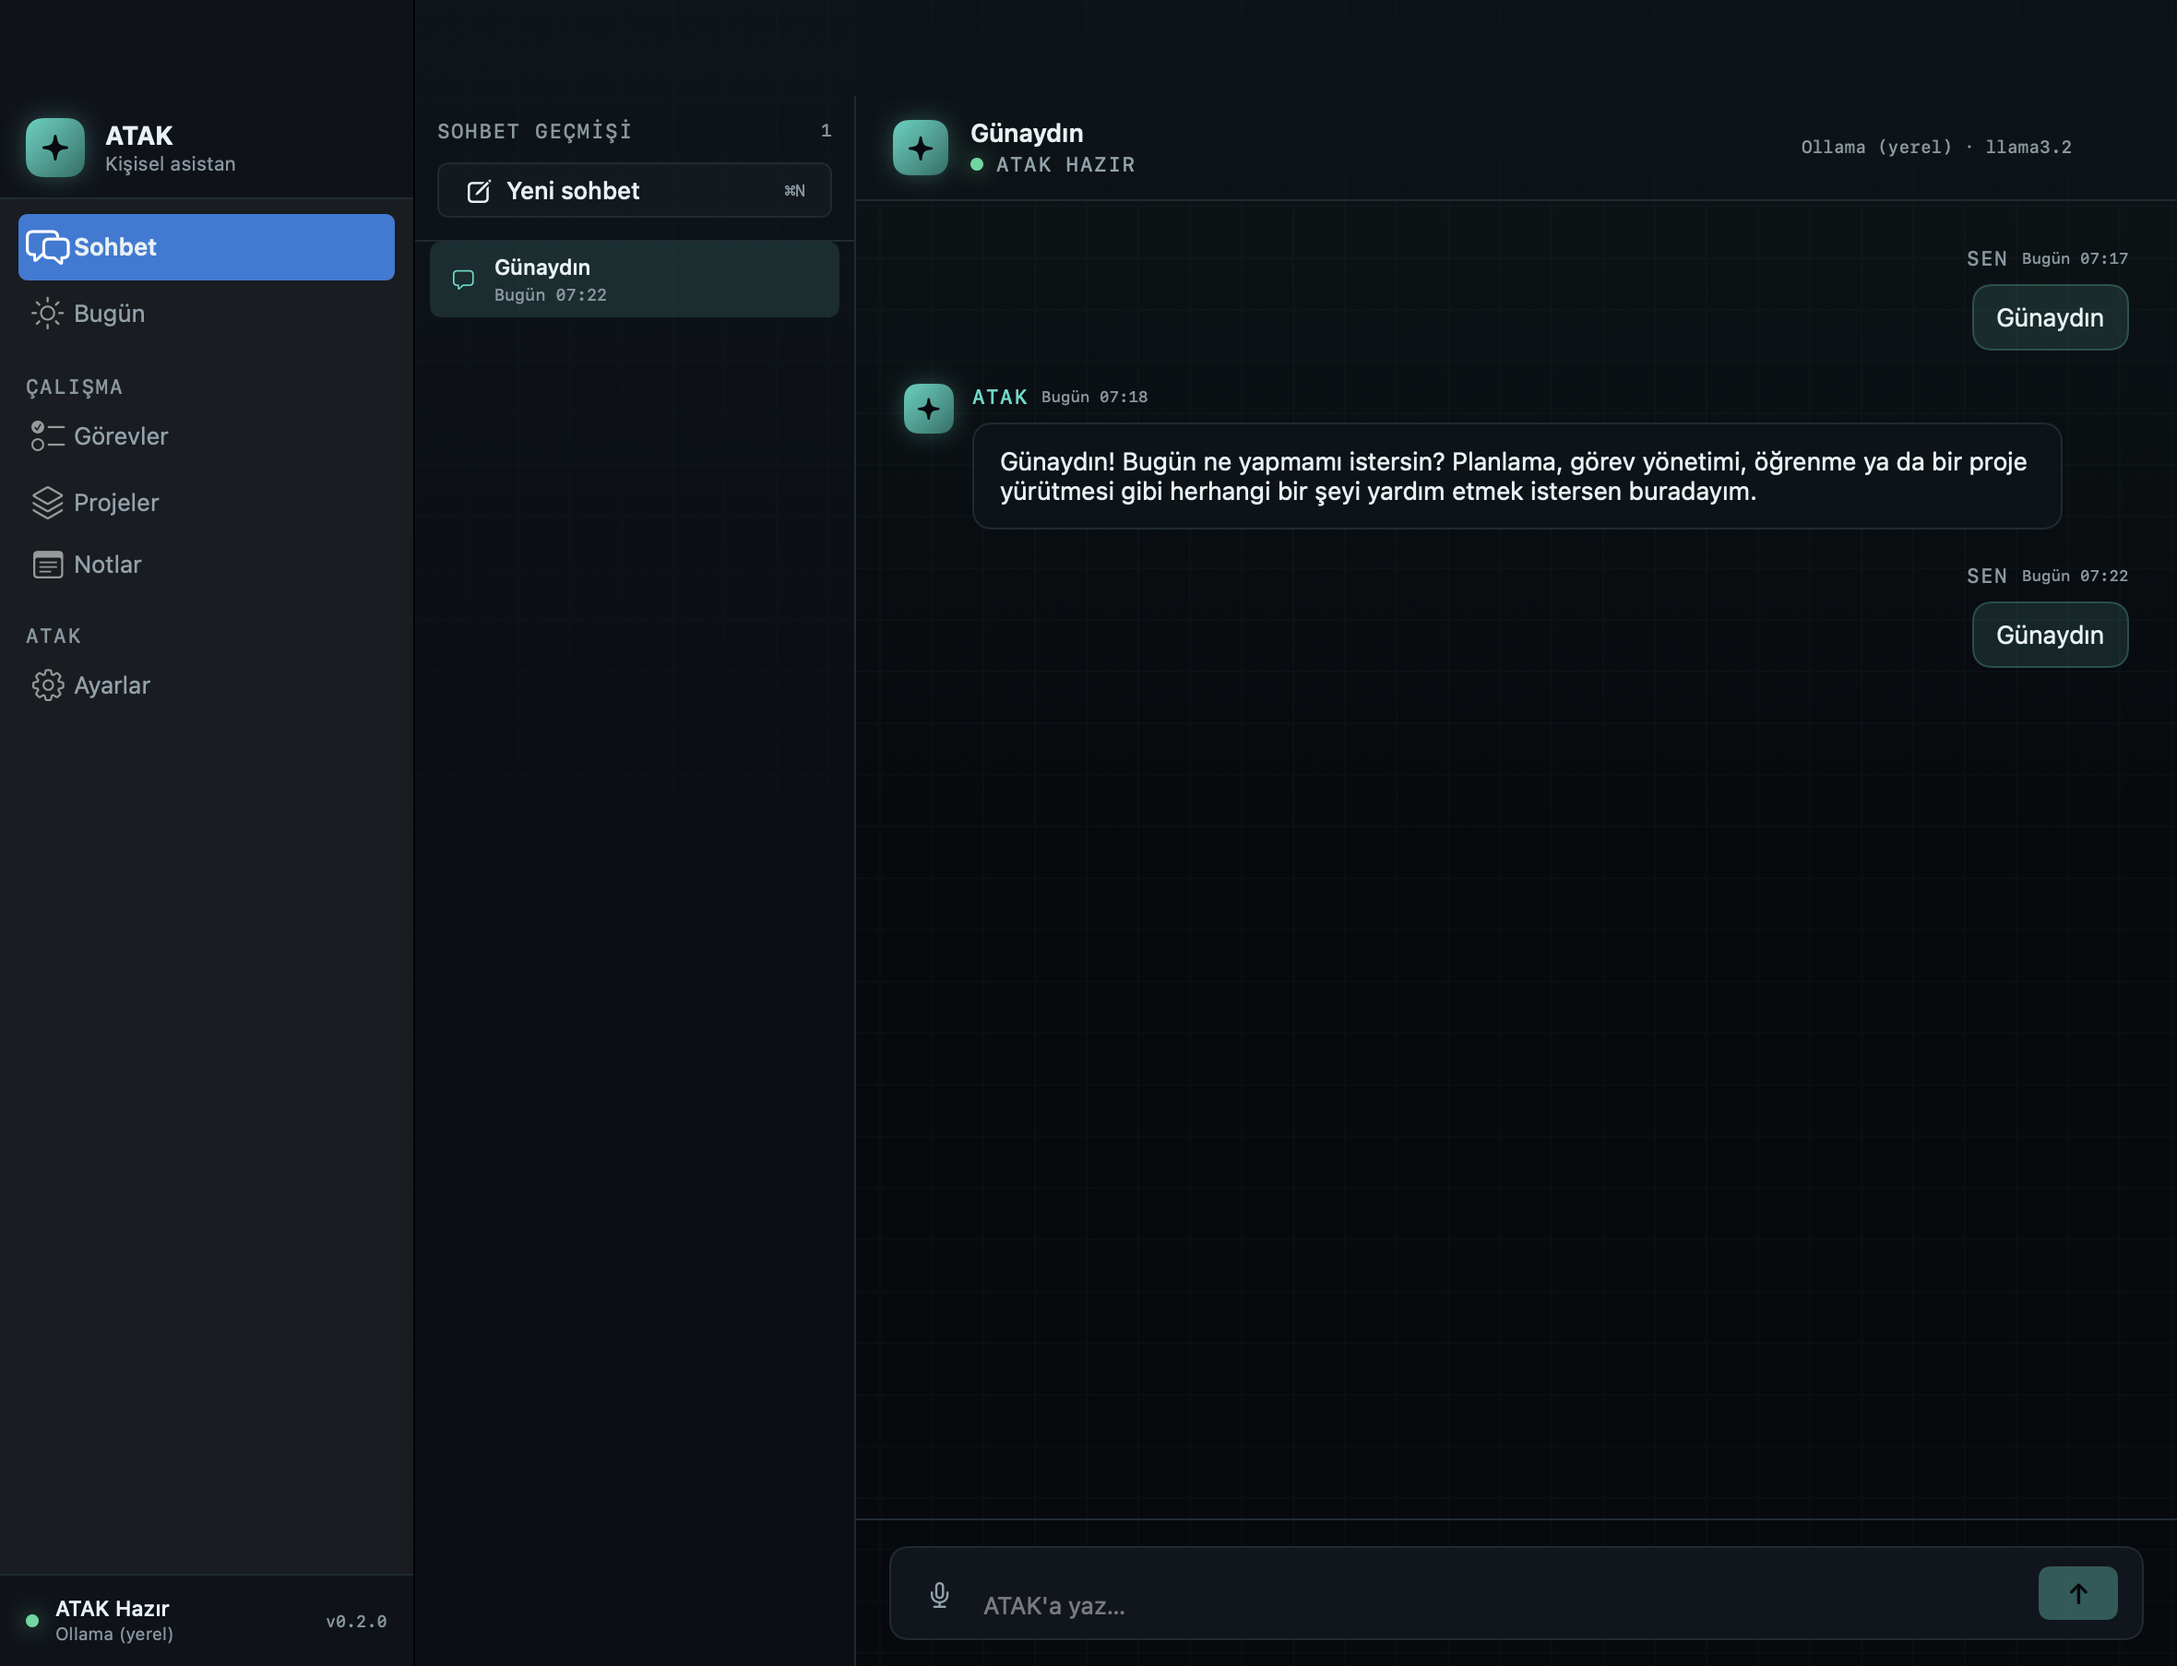
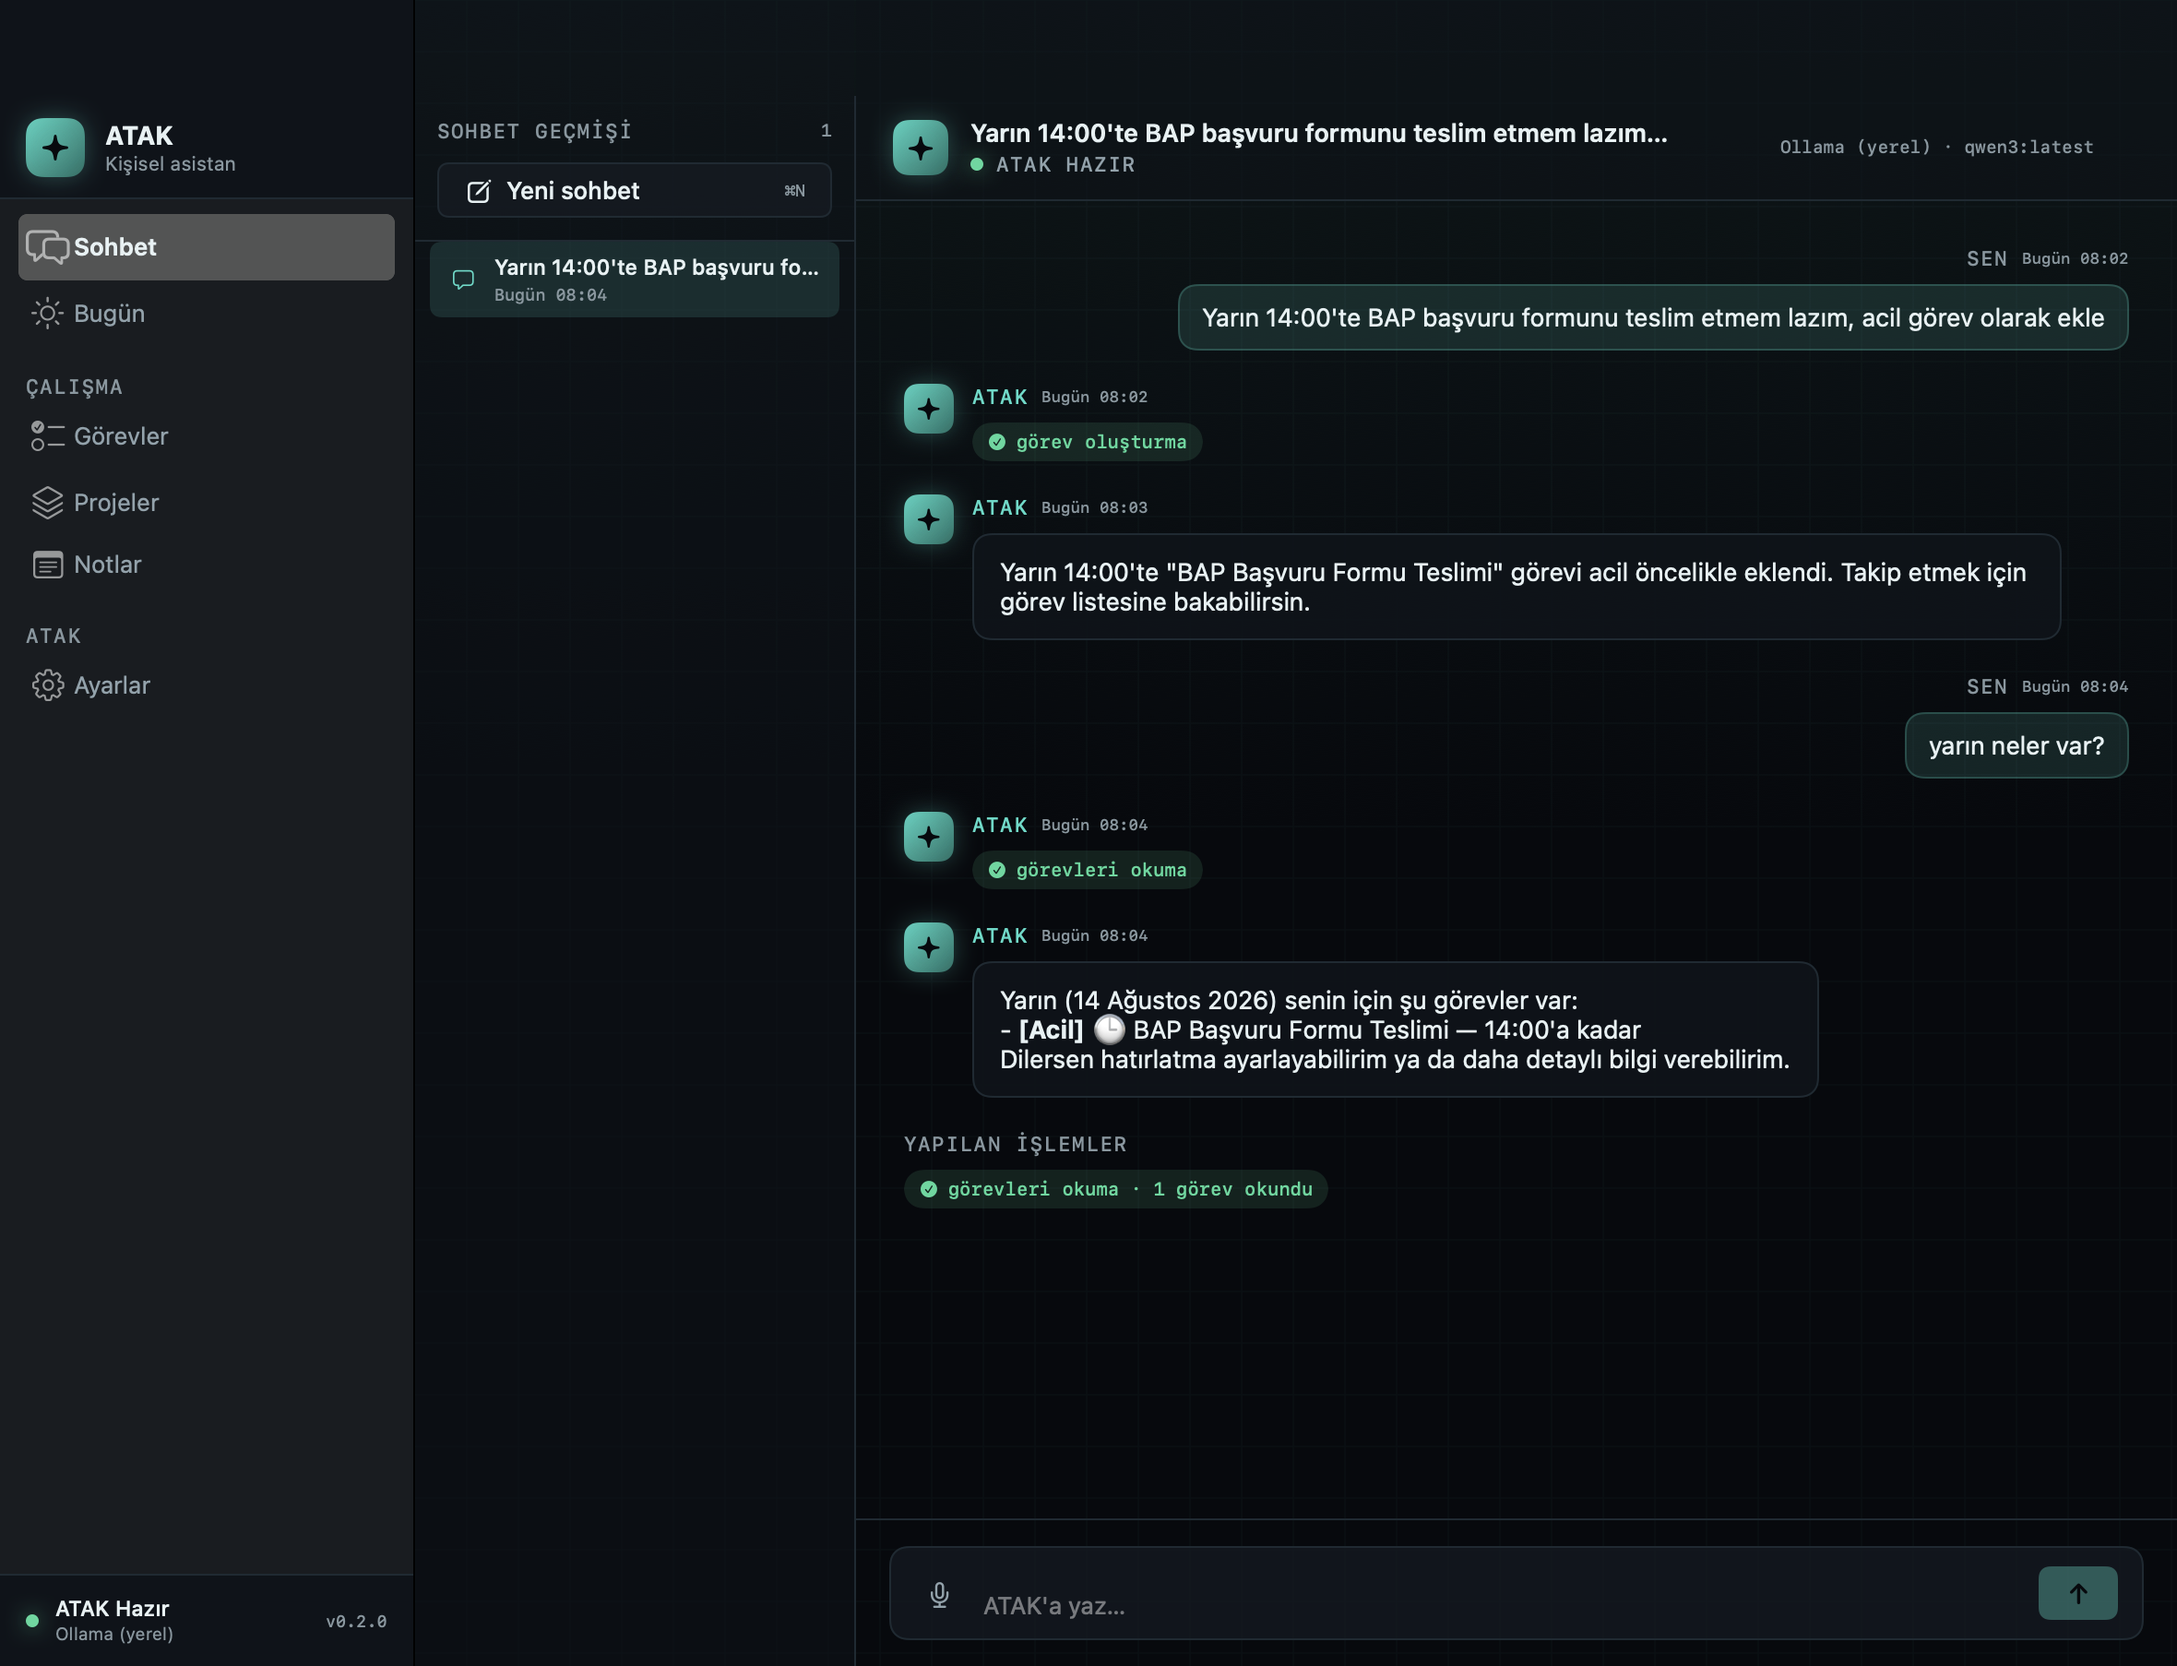
Stop leaking internal task IDs, add a tomorrow filter, refresh screenshots
Two defects surfaced while recording a demo conversation for the README:

1. Internal UUIDs reached the user. create_task returned "(id: 773D767A-…)"
   and the model dutifully repeated it in chat. The ID is needed for
   complete_task, so it stays in the tool result — but it is now labelled as
   internal, and the system prompt states it must never appear in a reply.

2. "yarın neler var?" could not be answered. list_tasks offered only
   today / open / overdue / completed / all, so asking about a specific
   upcoming day fell back to today's window and returned nothing. Added a
   tomorrow filter scoped strictly to tomorrow's bounds, plus a week filter
   over the existing upcoming(days:) case.

Screenshots recaptured against a conversation that actually demonstrates the
product: the assistant creates an urgent task, then reads it back with the
correct date and priority, with both tool badges visible.

114 tests green.

diff --git a/Sources/ATAKCore/Agent/ATAKToolbox.swift b/Sources/ATAKCore/Agent/ATAKToolbox.swift
@@ -73,8 +73,8 @@ public struct ATAKToolbox: Sendable {
                     "properties": .object([
                         "filter": .object([
                             "type": "string",
-                            "enum": .array(["today", "open", "overdue", "completed", "all"]),
-                            "description": "Hangi görevler; belirtilmezse open",
+                            "enum": .array(["today", "tomorrow", "week", "open", "overdue", "completed", "all"]),
+                            "description": "Hangi görevler; belirtilmezse open. 'tomorrow' yalnız yarını, 'week' önümüzdeki 7 günü verir.",
                         ])
                     ]),
                 ])
@@ -187,7 +187,9 @@ public struct ATAKToolbox: Sendable {
             throw ATAKError.database("Görev kaydedildi görünüyor ama geri okunamadı.")
         }
 
-        var detail = "Görev oluşturuldu: \"\(saved.title)\" (id: \(saved.id.uuidString))"
+        // Kimlik `complete_task` için gerekli ama kullanıcıya gösterilecek bir
+        // şey değil; modelin yanıtına kopyalamaması için açıkça işaretleniyor.
+        var detail = "Görev oluşturuldu: \"\(saved.title)\"\n[dahili_kimlik=\(saved.id.uuidString) — kullanıcıya yazma]"
         if let dueAt = saved.dueAt { detail += ", son tarih \(DateFormat.full(dueAt))" }
 
         return ToolExecutionResult(
@@ -201,6 +203,8 @@ public struct ATAKToolbox: Sendable {
         let filter: TaskFilter
         switch arguments["filter"]?.stringValue {
         case "today":     filter = .today
+        case "tomorrow":  filter = .tomorrow
+        case "week":      filter = .upcoming(days: 7)
         case "overdue":   filter = .overdue
         case "completed": filter = .completed
         case "all":       filter = .all
@@ -213,7 +217,7 @@ public struct ATAKToolbox: Sendable {
         }
 
         let lines = items.prefix(40).map { task -> String in
-            var line = "- [\(task.status.rawValue)] \(task.title) (id: \(task.id.uuidString))"
+            var line = "- [\(task.status.rawValue)] \(task.title) [dahili_kimlik=\(task.id.uuidString)]"
             if let due = task.dueAt { line += " · son tarih: \(DateFormat.full(due))" }
             if task.priority != .normal { line += " · öncelik: \(task.priority.displayName)" }
             if let minutes = task.estimatedMinutes { line += " · tahmini: \(minutes) dk" }

diff --git a/Tests/ATAKTests/DatabaseTests.swift b/Tests/ATAKTests/DatabaseTests.swift
@@ -349,6 +349,39 @@ struct TaskTests {
         #expect(counts.overdue >= 1)
     }
 
+    /// "yarın neler var" sorusu bu filtre olmadan cevapsız kalıyordu.
+    @Test("Yarın filtresi yalnız yarına düşenleri verir")
+    func tomorrowFilterIsScopedToTomorrow() async throws {
+        let context = try await TestDatabase()
+        let service = TaskService(database: context.database)
+
+        let bounds = TaskService.todayBounds()
+        let todayNoon = bounds.start.addingTimeInterval(12 * 3600)
+        let tomorrowNoon = bounds.end.addingTimeInterval(12 * 3600)
+        let dayAfter = bounds.end.addingTimeInterval(36 * 3600)
+
+        _ = try await service.create(title: "bugün", dueAt: todayNoon)
+        let tomorrow = try await service.create(title: "yarın", dueAt: tomorrowNoon)
+        _ = try await service.create(title: "öbür gün", dueAt: dayAfter)
+        _ = try await service.create(title: "tarihsiz")
+
+        let result = try await service.list(.tomorrow)
+        #expect(result.count == 1)
+        #expect(result.first?.id == tomorrow.id)
+    }
+
+    @Test("Yarın filtresi tamamlananları dışarıda bırakır")
+    func tomorrowFilterExcludesCompleted() async throws {
+        let context = try await TestDatabase()
+        let service = TaskService(database: context.database)
+
+        let tomorrowNoon = TaskService.todayBounds().end.addingTimeInterval(12 * 3600)
+        let done = try await service.create(title: "yarın ama bitti", dueAt: tomorrowNoon)
+        try await service.setCompleted(done.id, true)
+
+        #expect(try await service.list(.tomorrow).isEmpty)
+    }
+
     @Test("Aciliyet skoru gecikmiş işi öne alır")
     func urgencyPrefersOverdue() {
         let overdue = TaskItem(title: "gecikmiş", priority: .normal, dueAt: Date().addingTimeInterval(-3600))

diff --git a/Sources/ATAKCore/Services/TaskService.swift b/Sources/ATAKCore/Services/TaskService.swift
@@ -5,6 +5,7 @@ public enum TaskFilter: Sendable, Equatable {
     case all
     case open
     case today          // açık + bugün bitiyor veya gecikmiş
+    case tomorrow       // yalnız yarına düşenler
     case upcoming(days: Int)
     case overdue
     case completed
@@ -273,6 +274,16 @@ public struct TaskService: Sendable {
         case .today:
             let bounds = todayBounds()
             return ("\(openStatuses) AND due_at IS NOT NULL AND due_at < ?", [.date(bounds.end)])
+
+        case .tomorrow:
+            // Yalnız yarının penceresi: bugüne veya öbür güne taşmaz.
+            let bounds = todayBounds()
+            let end = Calendar.current.date(byAdding: .day, value: 2, to: bounds.start)
+                ?? bounds.start.addingTimeInterval(2 * 86_400)
+            return (
+                "\(openStatuses) AND due_at >= ? AND due_at < ?",
+                [.date(bounds.end), .date(end)]
+            )
 
         case .upcoming(let days):
             let bounds = todayBounds()

diff --git a/Sources/ATAKCore/AI/AIConfiguration.swift b/Sources/ATAKCore/AI/AIConfiguration.swift
@@ -130,6 +130,9 @@ public enum ATAKPrompt {
             - Kullanıcının açıkça istemediği kaydı oluşturma.
             - Tarih verirken bugünün tarihini temel al.
             - Bir araç hata döndürürse kullanıcıya dürüstçe söyle, uydurma.
+            - Araç sonuçlarındaki dahili_kimlik değerlerini ASLA yanıtına yazma. \
+            Onlar yalnız senin sonraki araç çağrılarında kullanman içindir; \
+            kullanıcı için anlamsız ve okunaksızdır. Göreve adıyla atıfta bulun.
             """
         }
 
